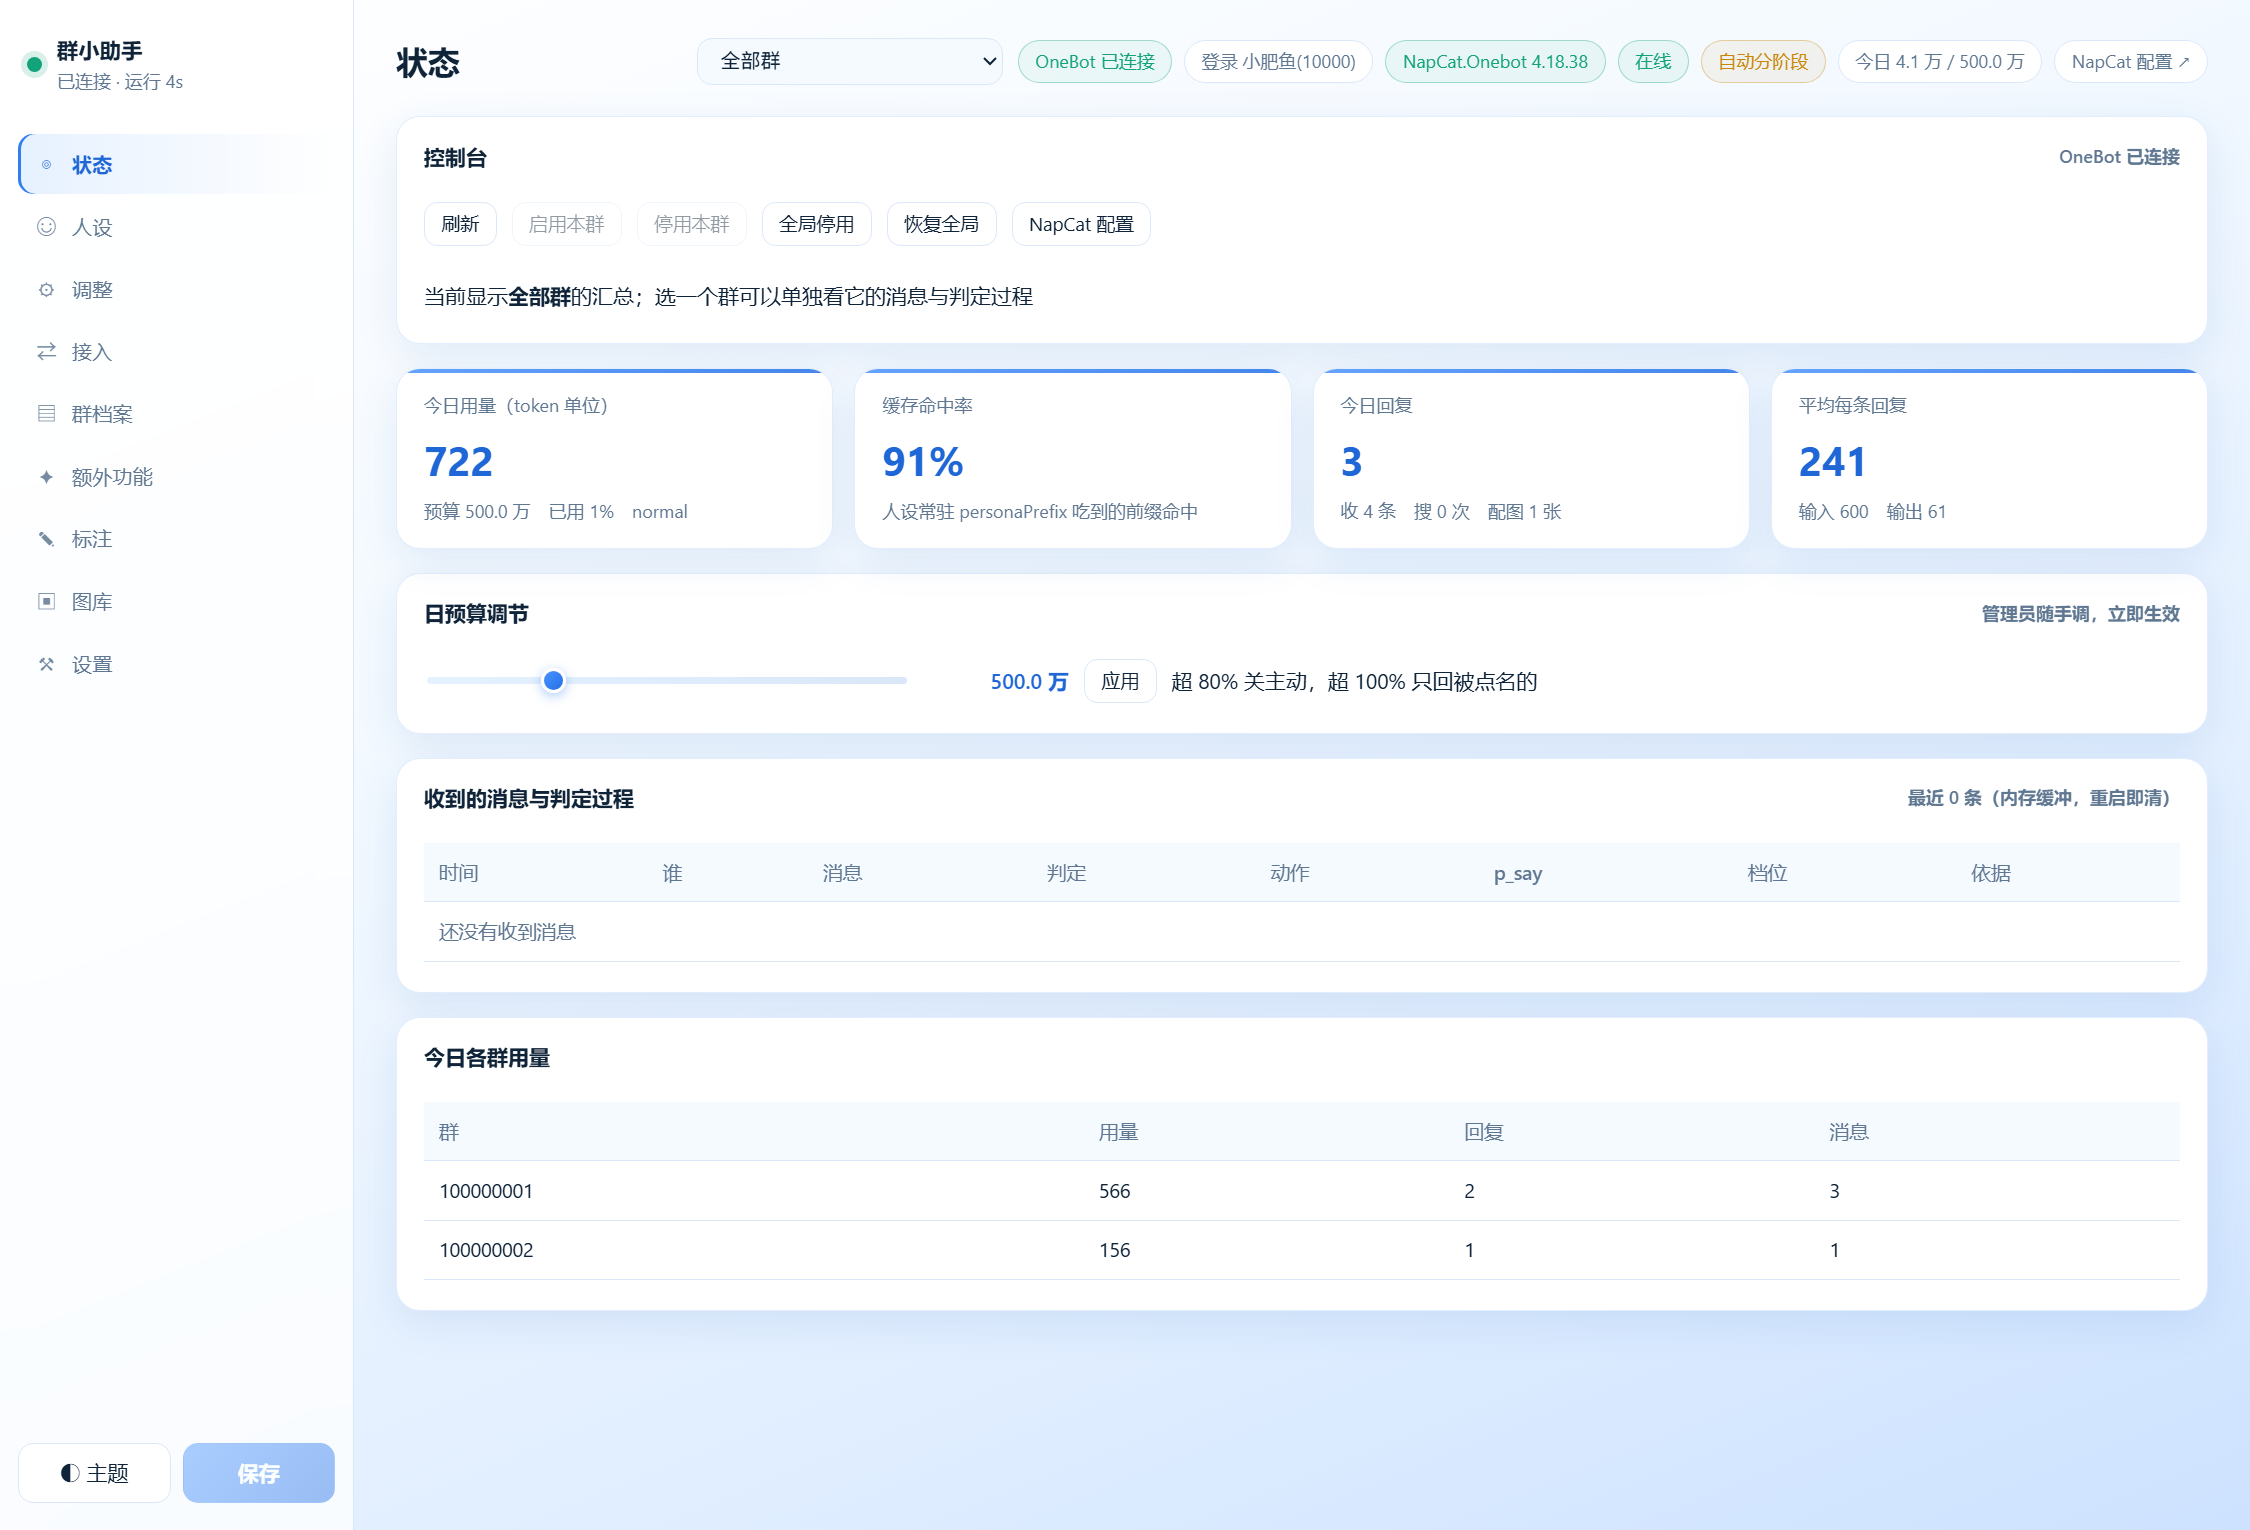
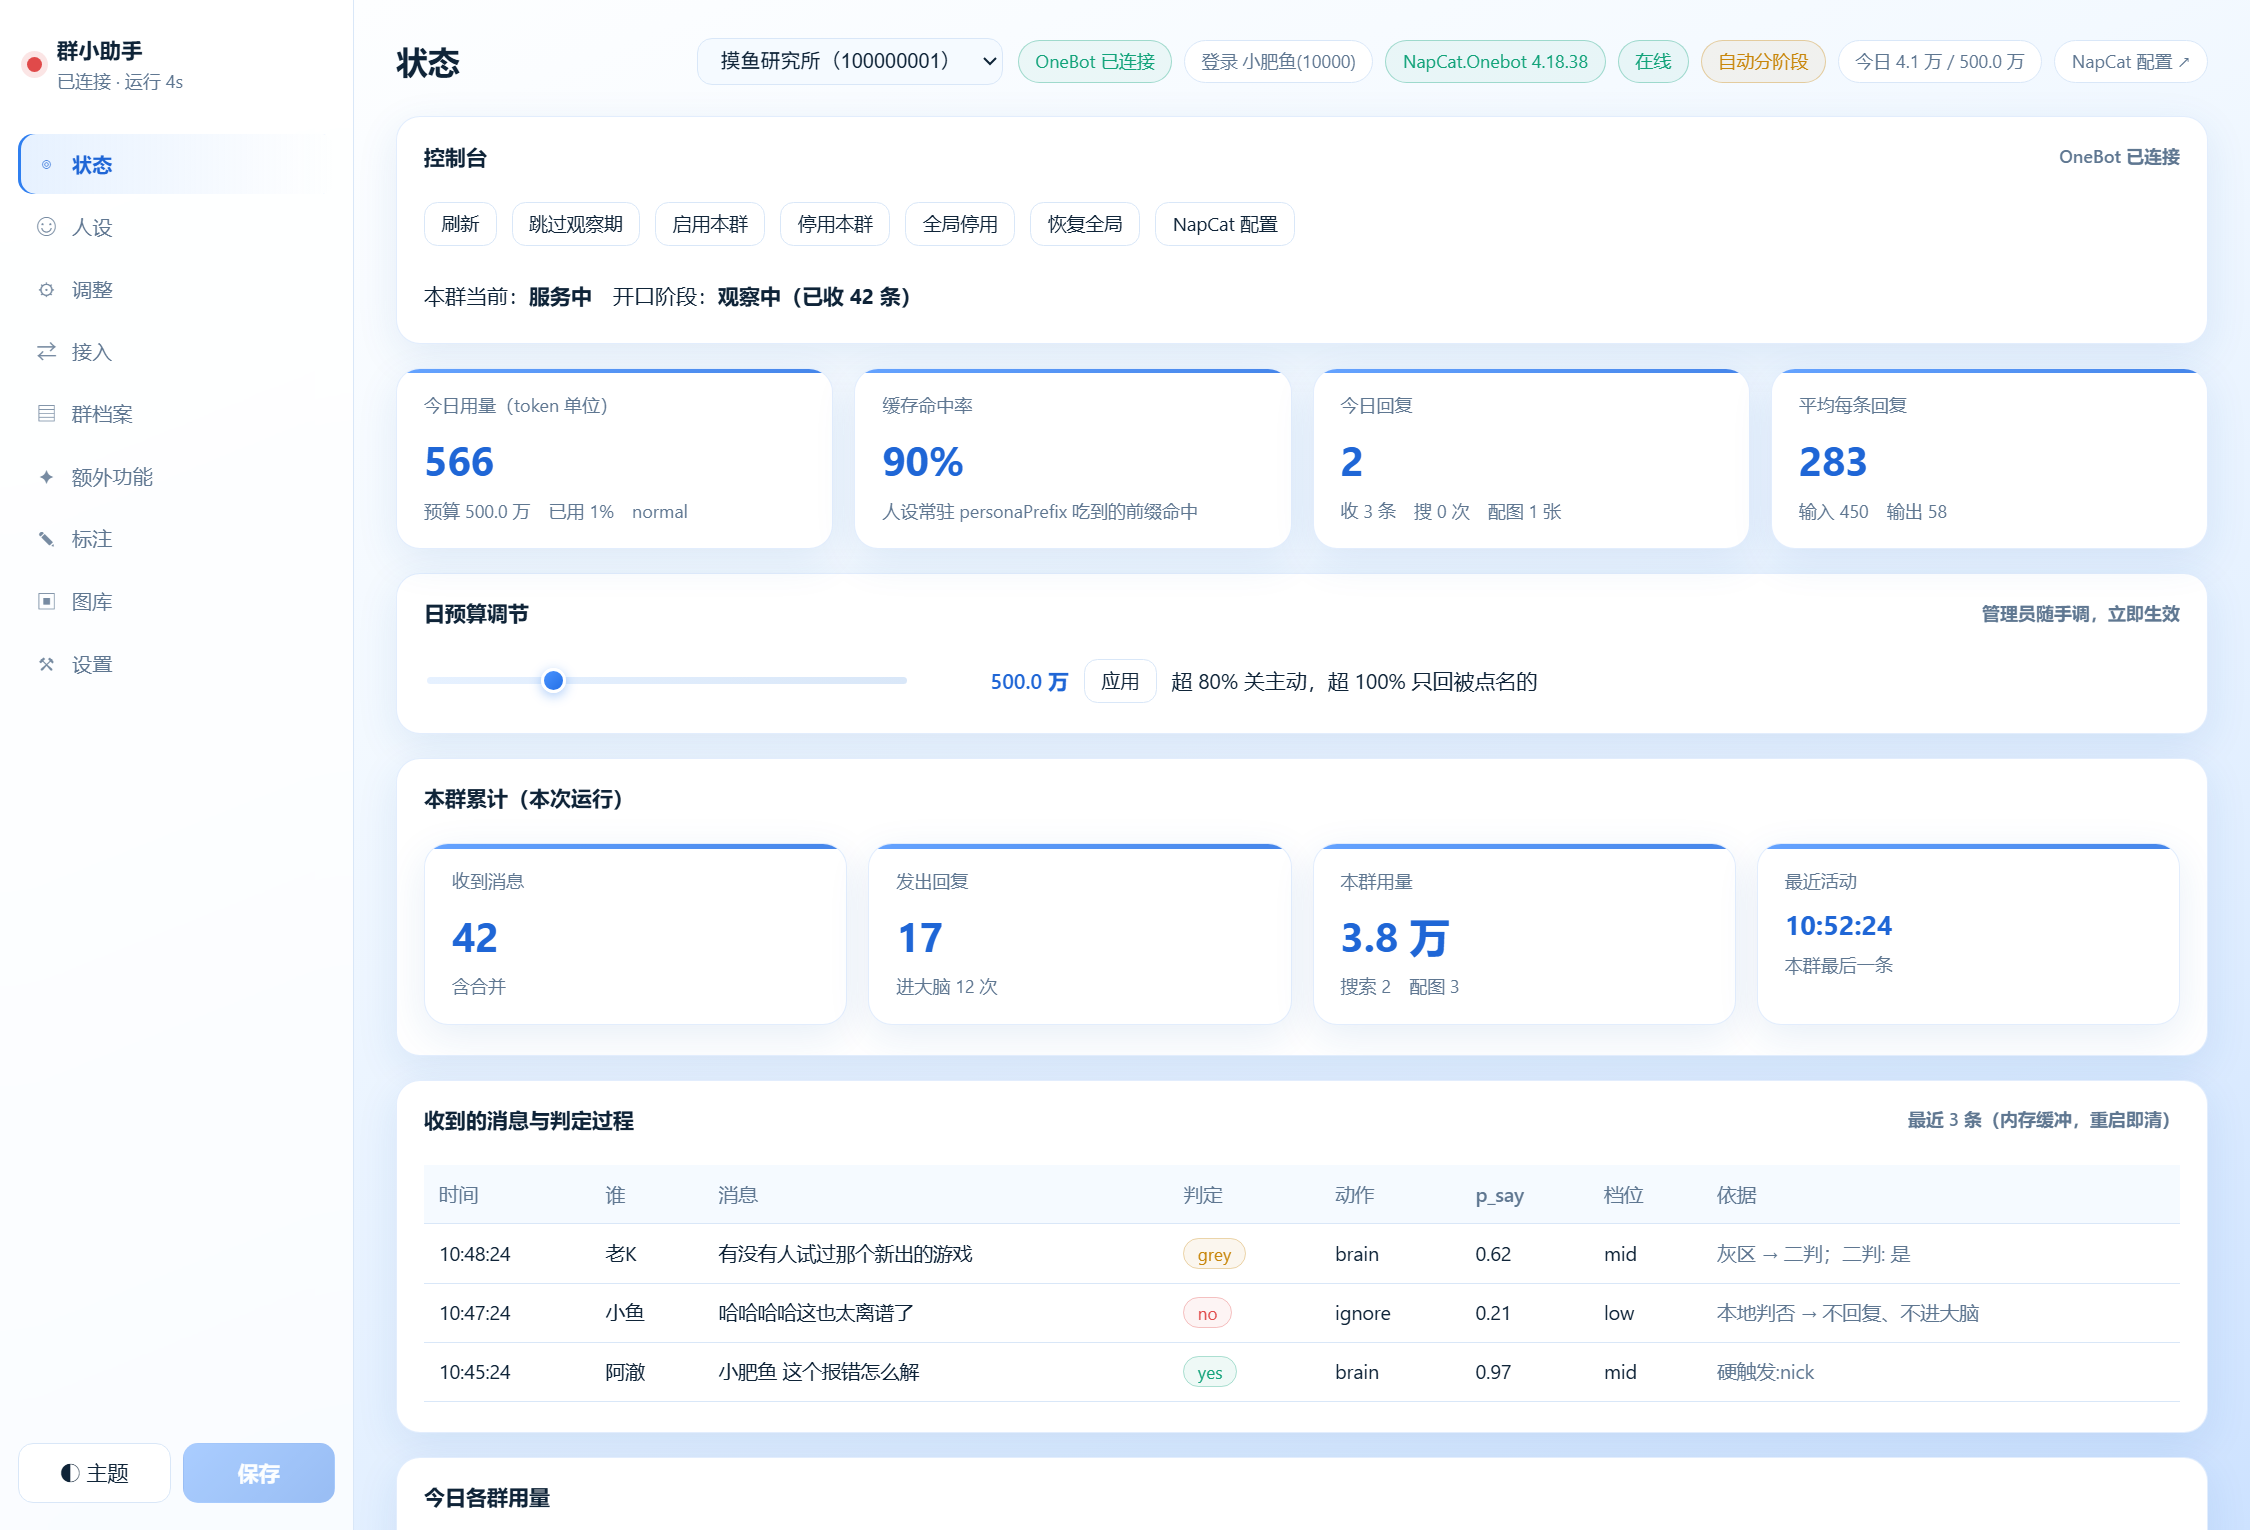
状态页新增「跳过观察期」小按钮（每群手动覆盖，可回退，群间隔离）+ 配置端支持 ?gid= 直达某群；补 2 项测试；宣传截图更新

diff --git a/app/src/webui/app.js b/app/src/webui/app.js
@@ -230,18 +230,22 @@
       return '<option value="' + esc(g.group_id) + '"' + (String(S.gid) === String(g.group_id) ? " selected" : "") + '>' + esc(name) + '</option>';
     }).join("");
     var enabled = S.gid ? (st.brakes && !(st.brakes.groups && st.brakes.groups[String(S.gid)]) && !st.brakes.stopFile && !st.brakes.configPaused) : null;
+    var stageNow = (st.stage && st.stage.stage) || "";
 
     var bar = '<div class="card"><div class="head"><span>控制台</span>' +
       '<span class="muted" style="font-size:12px">' + esc(ob.state === "open" ? "OneBot 已连接" : "OneBot " + (ob.state || "未知")) + '</span></div><div class="body">' +
       '<div class="ctl-row">' +
       '<button class="btn-sm" id="btn-refresh">刷新</button>' +
+      (S.gid ? (stageNow === "observe"
+        ? '<button class="btn-sm good" id="btn-skip-observe" title="不再等 80 条，本群直接进全自动">跳过观察期</button>'
+        : '<button class="btn-sm" id="btn-back-observe" title="交回阶段机，重新按观察期来">回到观察</button>') : "") +
       '<button class="btn-sm good" id="btn-enable"' + (S.gid ? "" : " disabled") + '>启用本群</button>' +
       '<button class="btn-sm bad" id="btn-disable"' + (S.gid ? "" : " disabled") + '>停用本群</button>' +
       '<button class="btn-sm bad" id="btn-global-stop">全局停用</button>' +
       '<button class="btn-sm good" id="btn-global-resume">恢复全局</button>' +
       '<button class="btn-sm" id="btn-napcat">NapCat 配置</button>' +
       '</div>' +
-      (S.gid ? '<div class="hint" style="margin-top:8px">本群当前：<b>' + (enabled ? "服务中" : "已停用") + '</b>　开口阶段：<b>' + esc(stageText(st.stage)) + '</b></div>' : '<div class="hint" style="margin-top:8px">当前显示<b>全部群</b>的汇总；选一个群可以单独看它的消息与判定过程</div>') +
+      (S.gid ? '<div class="hint" style="margin-top:8px">本群当前：<b>' + (enabled ? "服务中" : "已停用") + '</b>　开口阶段：<b>' + esc(stageText(st.stage)) + '</b>' + (st.stage && st.stage.skippedStage ? '　<span style="color:var(--warn)">（管理员手动跳过，点「回到观察」可恢复）</span>' : '') + '</div>' : '<div class="hint" style="margin-top:8px">当前显示<b>全部群</b>的汇总；选一个群可以单独看它的消息与判定过程</div>') +
       '</div></div>';
 
     // 成本卡片（预算卡片带调节杆）
@@ -642,6 +646,20 @@
       if (e.target.closest("#btn-refresh")) { loadGroups().then(refreshTop).then(function () { render(); }); toast("已刷新"); return; }
       if (e.target.closest("#btn-enable")) { if (!S.gid) return toast("先选一个群", true); return doAction({ action: "groupEnable", gid: S.gid }, "本群已启用"); }
       if (e.target.closest("#btn-disable")) { if (!S.gid) return toast("先选一个群", true); return doAction({ action: "groupDisable", gid: S.gid }, "本群已停用"); }
+      if (e.target.closest("#btn-skip-observe")) {
+        if (!S.gid) return toast("先选一个群", true);
+        return api("/api/action", { action: "setStage", gid: S.gid, stage: "full" }).then(function (r) {
+          toast(r.ok ? "已跳过观察期 —— 本群直接进全自动" : ("失败：" + (r.error || "")), !r.ok);
+          return refreshTop().then(render);
+        });
+      }
+      if (e.target.closest("#btn-back-observe")) {
+        if (!S.gid) return toast("先选一个群", true);
+        return api("/api/action", { action: "setStage", gid: S.gid, stage: "auto" }).then(function (r) {
+          toast(r.ok ? "已交回阶段机（重新从观察期算起）" : ("失败：" + (r.error || "")), !r.ok);
+          return refreshTop().then(render);
+        });
+      }
       if (e.target.closest("#btn-global-stop")) return doAction({ action: "globalStop" }, "已全局停用（配置里 paused=true）");
       if (e.target.closest("#btn-global-resume")) return doAction({ action: "globalResume" }, "已恢复");
       if (e.target.closest("#btn-budget")) {
@@ -819,6 +837,11 @@
       document.documentElement.setAttribute("data-theme", saved === "dark" ? "dark" : "light");
       var g = localStorage.getItem("dshqq-gid");
       if (g) S.gid = g;
+      // ?gid=100000001 可以直接落到某个群（分享链接 / 截图用）
+      try {
+        var qg = new URLSearchParams(location.search).get("gid");
+        if (qg) S.gid = qg;
+      } catch (err) {}
       // 支持 #状态 这种深链（分享某一页用）
       var h = String(location.hash || "").replace(/^#\/?/, "");
       if (h && PAGES.some(function (p) { return p.id === h; })) S.page = h;

diff --git a/app/src/runtime.js b/app/src/runtime.js
@@ -253,14 +253,46 @@ export function createRuntime(deps) {
   function stageOf(gid, nowMs) {
     if (rc.observe === true) return { stage: STAGE_OBSERVE, observed: 0, forced: true };   // 强制观察
     if (rc.observe === false) return { stage: STAGE_FULL, observed: 0, forced: true };     // 强制实际发送
-    if (rc.stageMode === "live") return { stage: STAGE_FULL, observed: 0, forced: true };
-    if (rc.stageMode === "observe") return { stage: STAGE_OBSERVE, observed: 0, forced: true };
     const key = String(gid);
     let s = stages.get(key);
+    // 管理员在配置端手动点过「跳过观察期 / 回到观察」→ 以它为准。
+    // 优先级放在强制观察(observe:true)之下、stageMode 之上：手动跳一次不该被全局 stageMode 抵消。
+    if (s && s.skippedStage) return s;
+    if (rc.stageMode === "live") return { stage: STAGE_FULL, observed: 0, forced: true };
+    if (rc.stageMode === "observe") return { stage: STAGE_OBSERVE, observed: 0, forced: true };
     if (!s) { s = { stage: STAGE_OBSERVE, observed: 0, semiUntil: null, since: nowMs }; stages.set(key, s); }
     if (s.stage === STAGE_OBSERVE && s.observed >= OBSERVE_UNTIL_MESSAGES) { s.stage = STAGE_SEMI; s.semiUntil = nowMs + SEMI_AUTO_DAYS * 86400000; s.advancedAt = nowMs; }
     if (s.stage === STAGE_SEMI && s.semiUntil && nowMs >= s.semiUntil) { s.stage = STAGE_FULL; s.advancedAt = nowMs; }
     return s;
+  }
+
+  // 手动设定某个群的阶段（配置端那个小按钮走这里）
+  //   "full" = 跳过观察期直接全自动；"semi" = 跳到半自动；"auto" = 取消手动、交回阶段机
+  function setStage(gid, target) {
+    const key = String(gid);
+    const t = String(target || "").toLowerCase();
+    if (t === "auto") {
+      // 交回阶段机：清掉手动标记，并让 stage 回到"按已观察条数重新判定"的状态
+      const cur = stages.get(key);
+      if (cur) {
+        delete cur.skippedStage;
+        delete cur.skippedAt;
+        cur.stage = cur.observed >= OBSERVE_UNTIL_MESSAGES ? STAGE_SEMI : STAGE_OBSERVE;
+        if (cur.stage === STAGE_SEMI) cur.semiUntil = now() + SEMI_AUTO_DAYS * 86400000;
+      }
+      const s2 = stageOf(key, now());
+      return { gid: key, stage: s2.stage, manual: false };
+    }
+    if (t !== STAGE_OBSERVE && t !== STAGE_SEMI && t !== STAGE_FULL) return { gid: key, error: "阶段只能是 observe / semi / full / auto" };
+    let s = stages.get(key);
+    if (!s) { s = { stage: STAGE_OBSERVE, observed: 0, semiUntil: null, since: now() }; stages.set(key, s); }
+    s.stage = t;
+    s.skippedStage = t;                       // 记住"这是手动跳的"
+    s.skippedAt = now();
+    if (t === STAGE_SEMI) s.semiUntil = now() + SEMI_AUTO_DAYS * 86400000;
+    if (t === STAGE_FULL) s.semiUntil = null;
+    observe({ kind: "stage_manual", gid: key, stage: t });
+    return { gid: key, stage: t, manual: true };
   }
 
   function rememberMembers(batch) {
@@ -567,6 +599,7 @@ export function createRuntime(deps) {
     members: function (gid) { const m = members.get(String(gid)); return m ? Object.fromEntries(m) : {}; },
     history: function (gid) { return (history.get(String(gid)) || []).slice(); },
     stage: function (gid) { return Object.assign({}, stageOf(gid, now())); },
+    setStage: setStage,
     tracker: tracker, labels: labels,
     groups: function () { return Array.from(perGroup.values()).sort(function (a, b) { return b.lastAt - a.lastAt; }); },
     groupStats: function (gid) { return Object.assign({}, gstat(gid)); },

diff --git a/app/src/webui.js b/app/src/webui.js
@@ -226,6 +226,12 @@ export function createWebUi(deps) {
         if (configFile) { try { saveConfig(cfg, configFile); } catch (e) {} }
         return sendJson(res, 200, { ok: true, action: act, paused: v });
       }
+      if (act === "setStage") {
+        if (!runtime || !runtime.setStage) return sendJson(res, 500, { ok: false, error: "没有运行中的实例" });
+        if (!b.gid) return sendJson(res, 400, { ok: false, error: "缺少 gid" });
+        const r = runtime.setStage(b.gid, b.stage);
+        return sendJson(res, 200, Object.assign({ ok: !r.error, action: act }, r));
+      }
       if (act === "reconnect") {
         if (!reconnectFn) return sendJson(res, 500, { ok: false, error: "没有接重连服务" });
         const r = await reconnectFn();

diff --git a/docs/B站宣传视频制作说明.md b/docs/B站宣传视频制作说明.md
@@ -61,7 +61,8 @@
 | **2** | 0:12–0:30 | 架构图整体推入，缓慢左移 | 「它叫 dsh-qq-assistant。左边这一半**全是本地算法，一分钱不花**」 | `diagrams/architecture.png` |
 | **3** | 0:30–0:55 | 判定链路动图（逐块点亮） | 硬触发 → 合并 → 六因子 → 三阈值 → 灰区二判 | README 的 Mermaid 图（GitHub 渲染后录屏） |
 | **4** | 0:55–1:20 | **状态页**实拍：判定过程表滚动 | 「每条消息都被判成 yes / no / grey，**依据写得明明白白**」 | `video/shots/01-状态.png` + 现场录 |
-| **5** | 1:20–1:40 | 鼠标划预算滑块，数字实时变 | 「管理员随手改当日预算，超 80% 关主动搭话，超 100% 只回被点名的」 | 现场录 |
+| **5a** | 1:20–1:32 | 点状态页的**「跳过观察期」**，阶段从「观察中」变「全自动」 | 「新群默认只看不说。不想等 80 条？点一下这个按钮。」 | 现场录（见 @@shots/01-状态.png@@ 控制台那排） |
+| **5b** | 1:32–1:45 | 鼠标划预算滑块，数字实时变 | 「管理员随手改当日预算，超 80% 关主动搭话，超 100% 只回被点名的」 | 现场录 |
 | **6** | 1:40–2:05 | **额外功能页整页**下滑，停在【社区插件兼容】 | 「四个社区插件都能插能拔，**关掉的能力连人设里都不写**」 | `video/shots/02-额外功能-整页.png` |
 | **7** | 2:05–2:30 | 真人操作：装插件 → 复制到人设 → 保存 | 「点一次一键安装，四个插件全装好」 | 现场录 |
 | **8** | 2:30–2:50 | **架构图**局部放大（右边社区插件那圈） | 「免费模型、24 个搜索引擎、画图、图库——都不打包，只做兼容」 | `diagrams/architecture.png` |
@@ -126,6 +127,7 @@
    - 发一条 `哈哈哈哈` → 它**不回**（这就是卖点）
 2. **配置端**
    - 状态页：滚动「收到的消息与判定过程」
+   - 状态页：点**「跳过观察期」**（在「刷新」右边），阶段标签立刻变成「全自动」；再点「回到观察」可退回去
    - 拖「日预算调节」滑块 → 点应用
    - 额外功能页：开一个插件开关 → 保存 → 回人设页**指出人设变了**
    - 群档案页：改一个话题 → 保存
